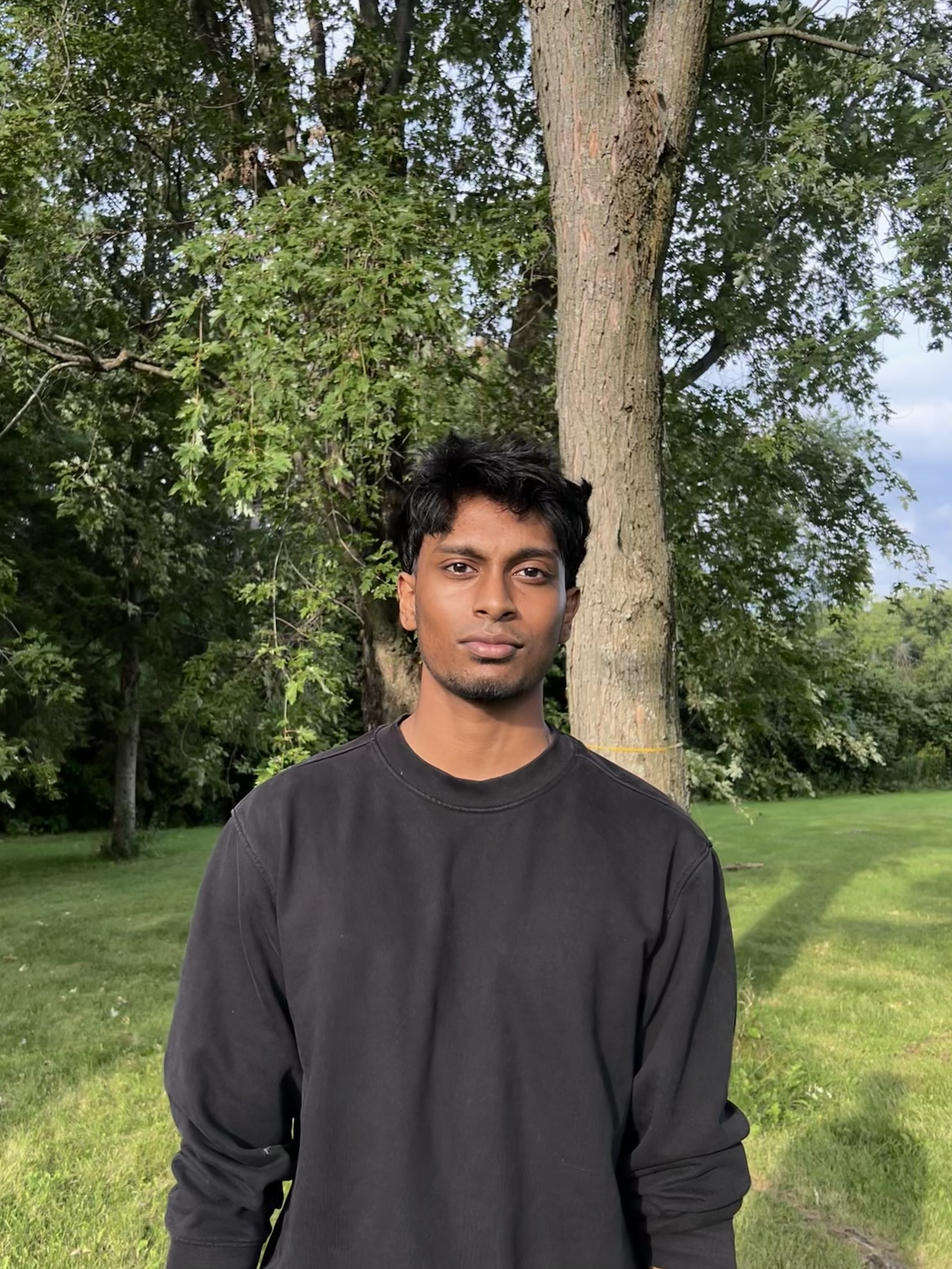
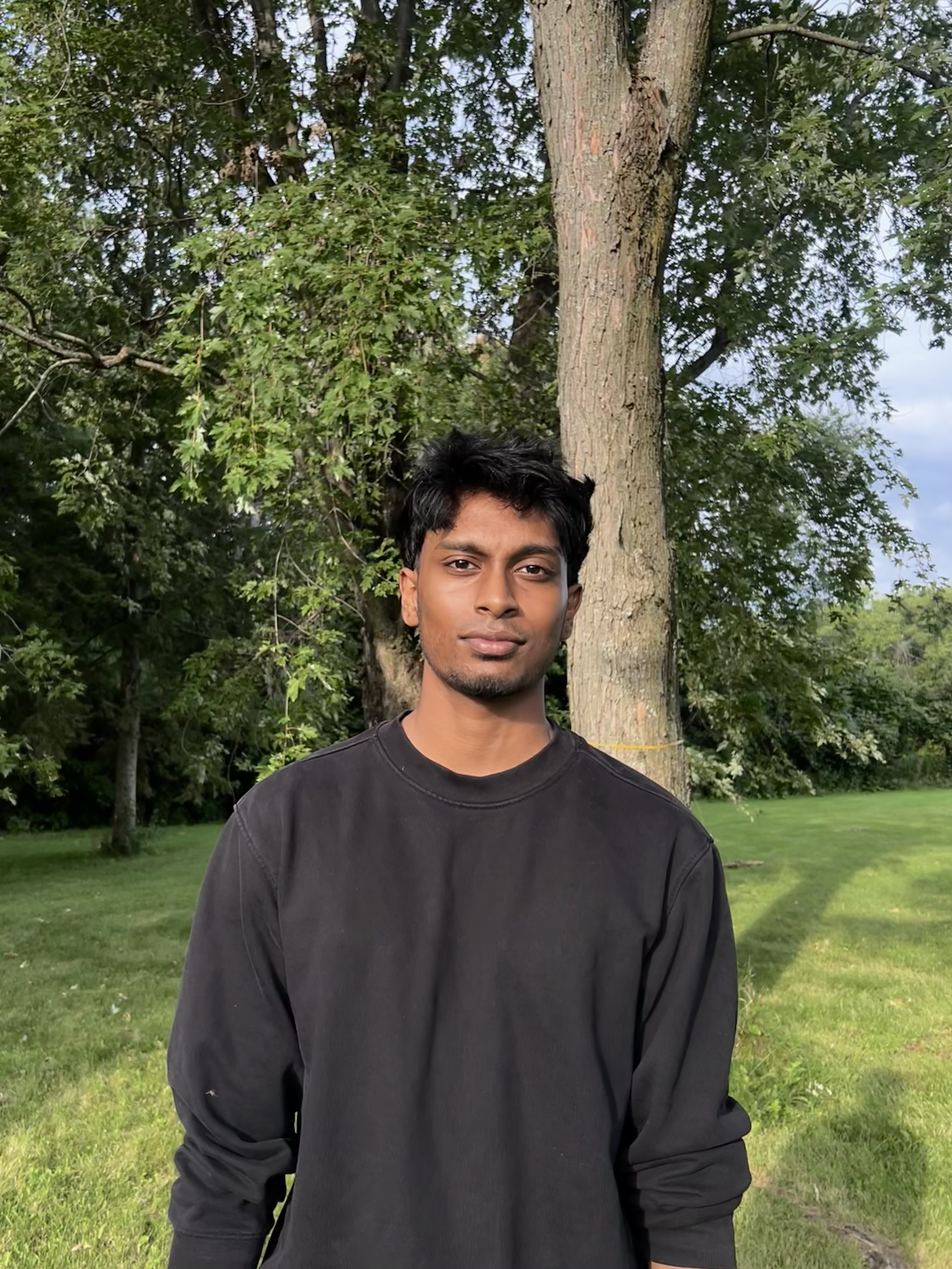
bug fixes

diff --git a/components/home/HeroPhoto.tsx b/components/home/HeroPhoto.tsx
@@ -36,7 +36,7 @@ export function HeroPhoto() {
         {/* the photo */}
         <div className="relative aspect-[4/5] overflow-hidden rounded-[2rem] ring-1 ring-white/10 shadow-[0_40px_80px_-30px_rgb(0_0_0/0.85)] transition-transform duration-500 ease-out group-hover:-translate-y-1 sm:rounded-[2.5rem]">
           <Image
-            src="/derrick-hero.jpg"
+            src="/Derrick-hero.jpeg"
             alt="Derrick Ratnaharan"
             fill
             priority
